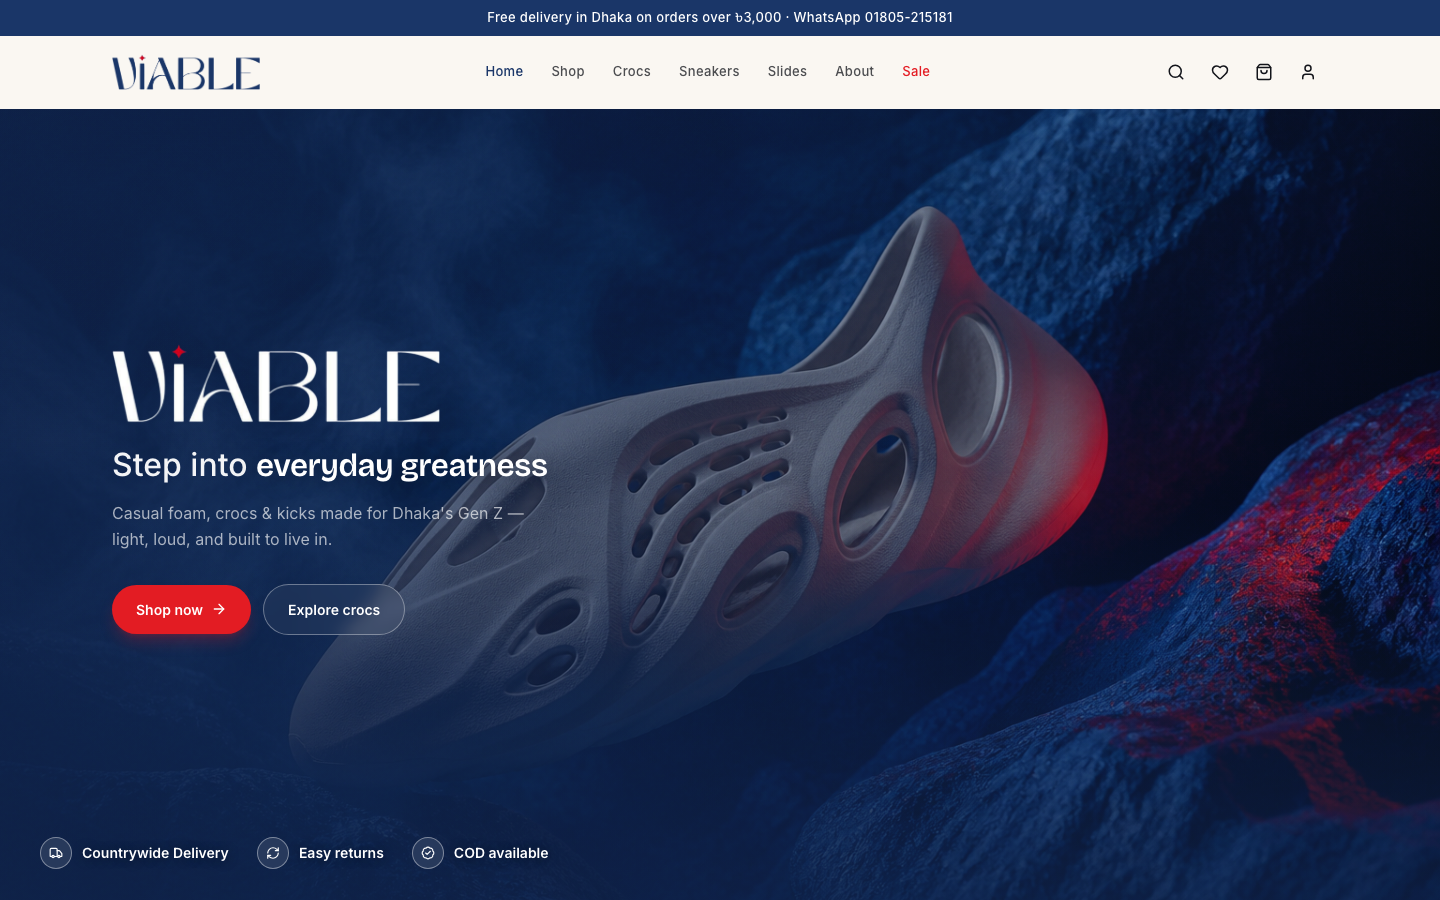
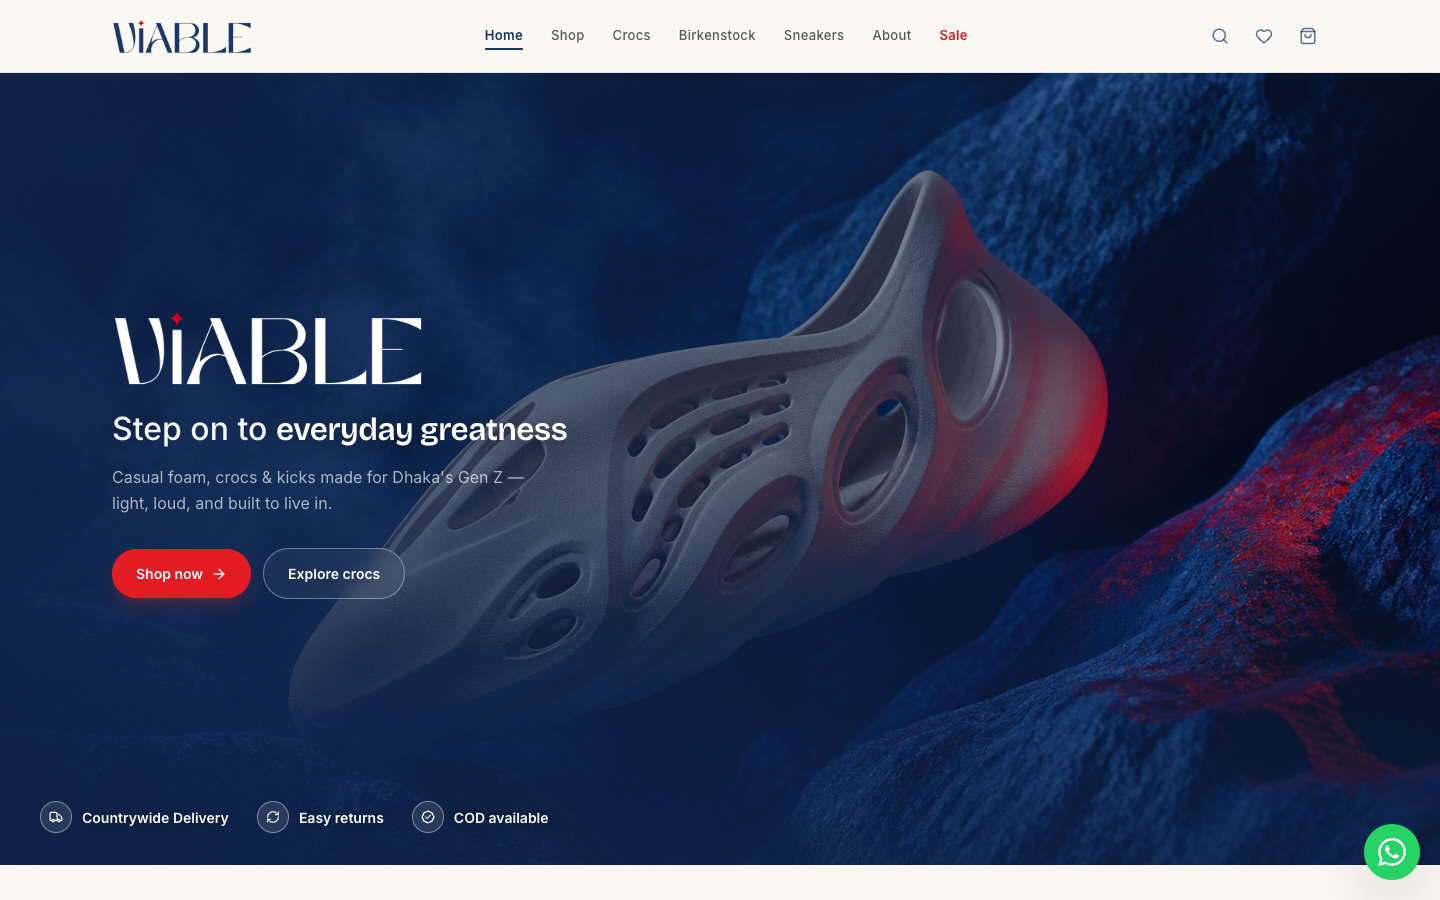
Update Viable portfolio entry for Next.js + Supabase storefront.
Refresh copy, stack, live URL, and screenshot to match the current viable-footwear-website deployment.

diff --git a/src/data/site.ts b/src/data/site.ts
@@ -134,16 +134,16 @@ export const projects: Project[] = [
   },
   {
     title: "Viable",
-    subtitle: "Footwear storefront",
+    subtitle: "Footwear storefront + admin",
     description:
-      "Gen Z footwear brand site for Dhaka — foam runners, crocs, slides, and sneakers with a motion-led shop, PDP, cart, and WhatsApp-first ordering.",
+      "Gen Z footwear brand for Dhaka — Next.js storefront with shop, PDP, cart, wishlist, and WhatsApp-first ordering, plus a Supabase-backed admin for catalog, inventory, orders, and campaigns.",
     highlights: [
-      "Built a React + Vite SPA with shop, product detail, size selection, cart, and wishlist flows.",
-      "Designed a full-bleed Framer Motion hero and mobile-first commerce UX tuned for casual footwear.",
-      "Wired WhatsApp ordering with COD and delivery trust cues for local checkout without a payment gateway.",
+      "Migrated from a Vite SPA to Next.js 15 App Router with a live Supabase catalog, RLS, and staff auth.",
+      "Built Admin/Manager ops: categories, products, variants, media, inventory, orders, offers, and analytics.",
+      "Shipped motion-led storefront UX with cart/wishlist flows and WhatsApp COD checkout for local buyers.",
     ],
-    stack: ["React", "TypeScript", "Vite", "Tailwind CSS", "Framer Motion"],
-    live: "https://viable.inventivelab.bd",
+    stack: ["Next.js", "Supabase", "TypeScript", "Tailwind CSS", "Framer Motion"],
+    live: "https://viable-footwear.vercel.app",
     repo: "https://github.com/mr-aminul/viable-footwear-website",
     year: "2026",
     image: "/projects/viable.png",
